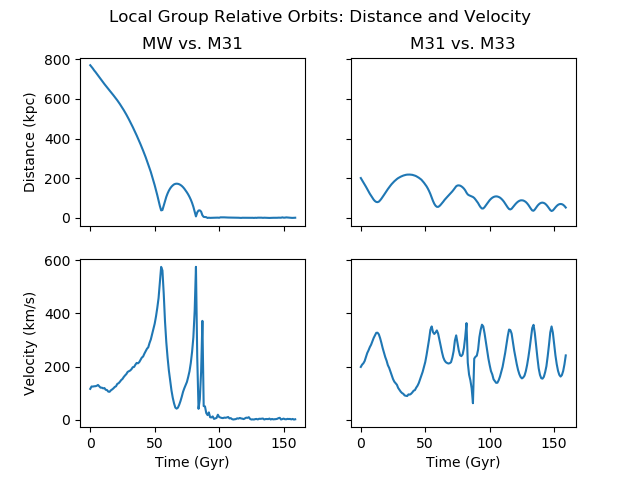
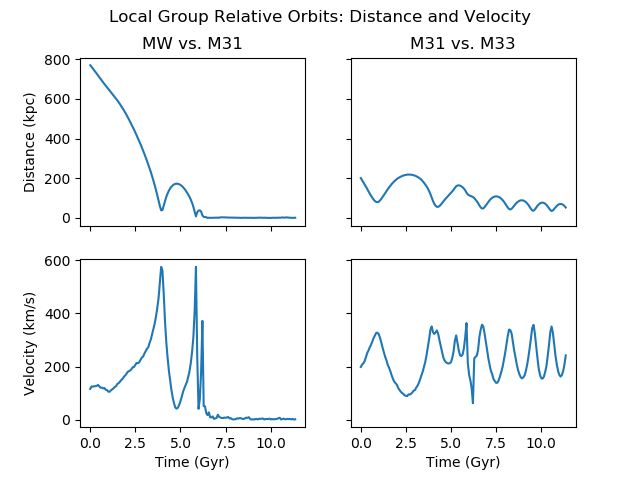
Fixed incorrect time values on x-axes

diff --git a/Homeworks/Homework6/OrbitCOM.py b/Homeworks/Homework6/OrbitCOM.py
@@ -118,6 +118,10 @@ def GetVelocities(galaxy):
     vy = data['vy']
     vz = data['vz']
     return np.array([vx,vy,vz])
+def GetTimes(galaxy):
+    data = np.genfromtxt('Orbit_'+galaxy+'.txt',names=True)
+    return data['t']
+	
 
 # function to compute the magnitude of the difference between two vectors
 # You can use this function to return both the relative position and relative velocity for two
@@ -135,11 +139,13 @@ def VectorMinus(v1,v2):
 
 MWM31_dist = VectorMinus(GetPositions('MW'),GetPositions('M31'))
 MWM31_vel = VectorMinus(GetVelocities('MW'),GetVelocities('M31'))
+t = GetTimes('MW')
 
 # of M33 and M31
 
 M31M33_dist = VectorMinus(GetPositions('M31'),GetPositions('M33'))
 M31M33_vel = VectorMinus(GetVelocities('M31'),GetVelocities('M33'))
+
 
 # Plot the Orbit of the galaxies
 #################################
@@ -150,11 +156,11 @@ fig,ax=plt.subplots(nrows=2,ncols=2,sharex='all',sharey='row')
 fig.suptitle("Local Group Relative Orbits: Distance and Velocity")
 
 # line plot: relative seperation between Milky Way and Andromeda
-ax[0,0].plot(MWM31_dist)
+ax[0,0].plot(t,MWM31_dist)
 ax[0,0].set(title="MW vs. M31",ylabel="Distance (kpc)")
 
 # M31 and M33
-ax[0,1].plot(M31M33_dist)
+ax[0,1].plot(t,M31M33_dist)
 ax[0,1].set(title="M31 vs. M33")
 
 
@@ -162,10 +168,10 @@ ax[0,1].set(title="M31 vs. M33")
 #################################
 
 # MW and M31
-ax[1,0].plot(MWM31_vel)
+ax[1,0].plot(t,MWM31_vel)
 ax[1,0].set(xlabel="Time (Gyr)",ylabel="Velocity (km/s)")
 
-ax[1,1].plot(M31M33_vel)
+ax[1,1].plot(t,M31M33_vel)
 ax[1,1].set(xlabel="Time (Gyr)")
 
 # set log scale for y-axis (optional)
